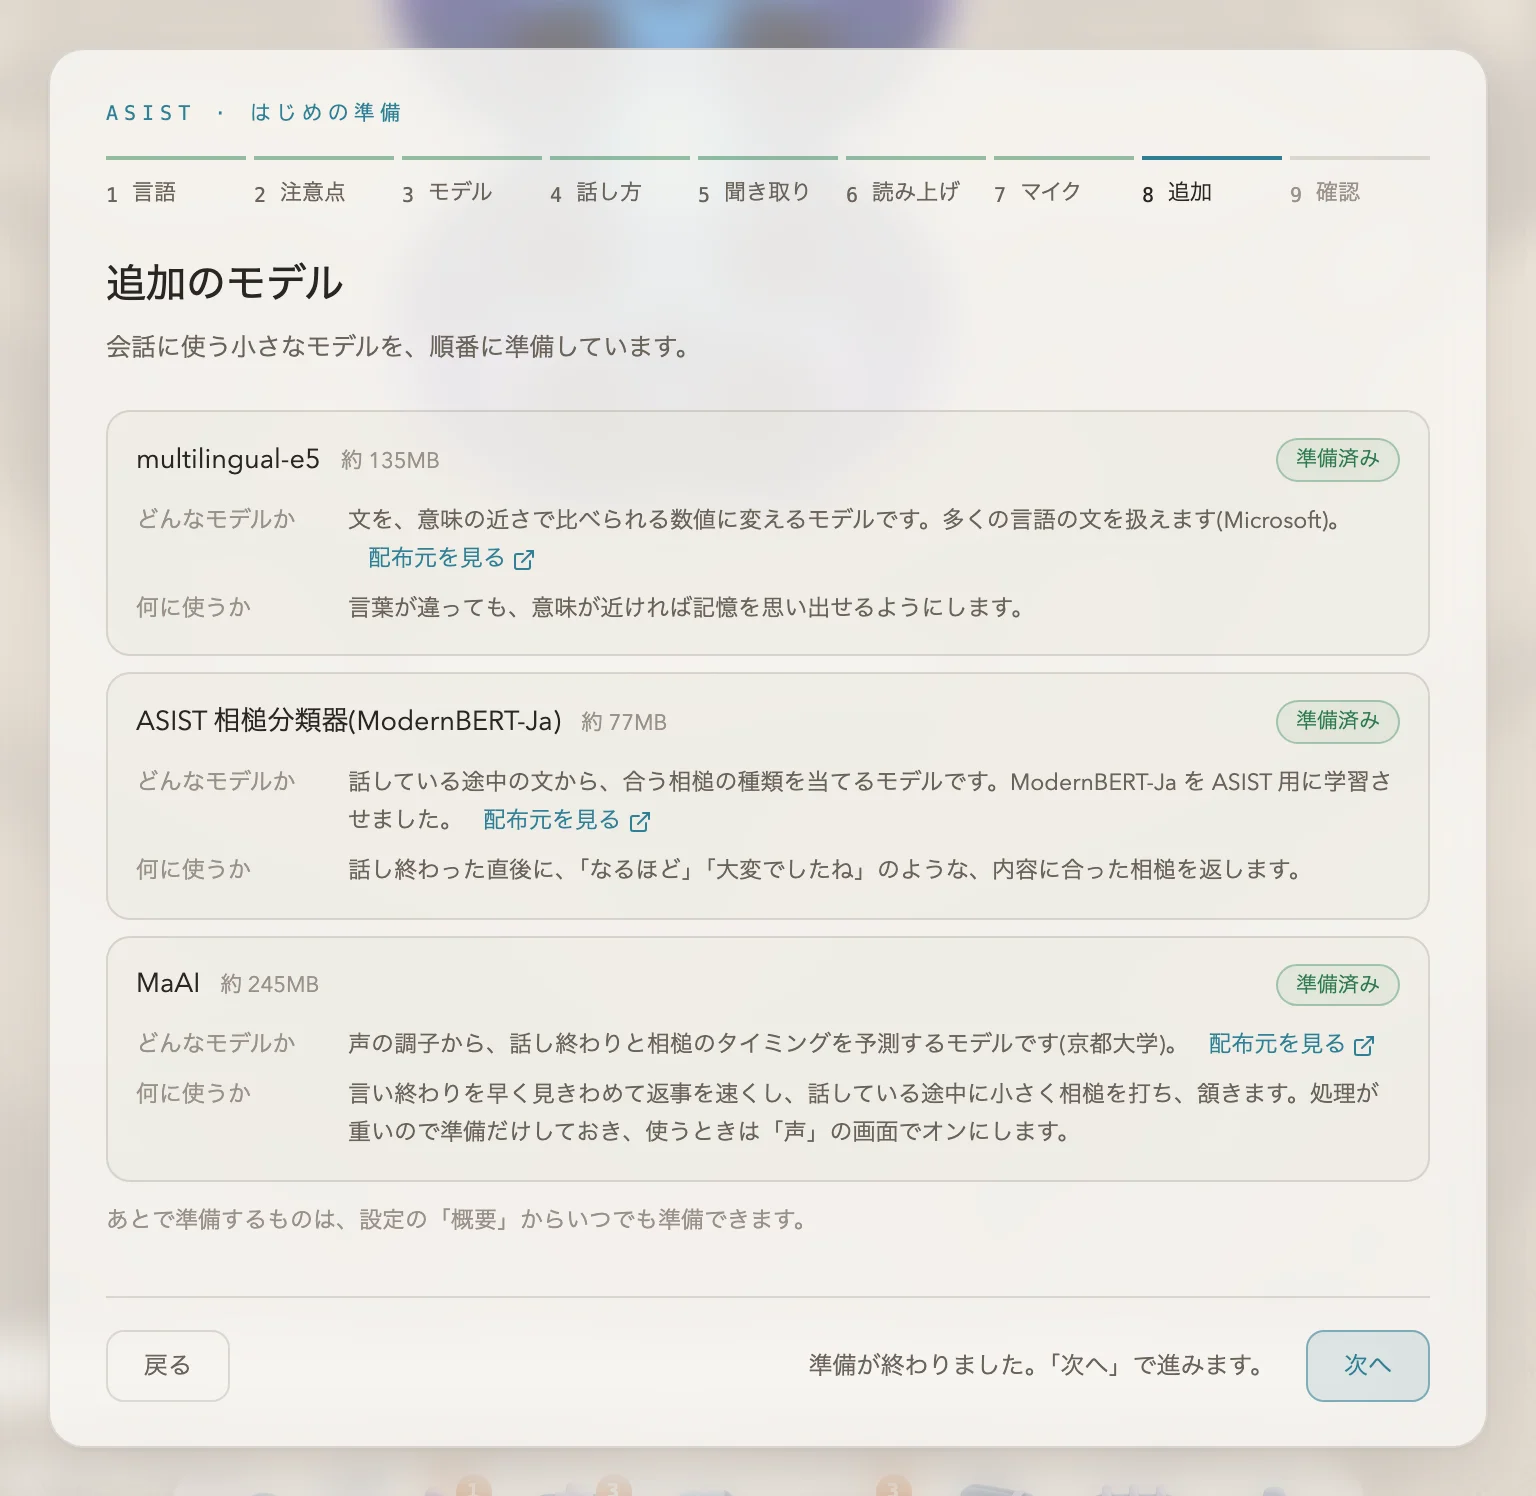
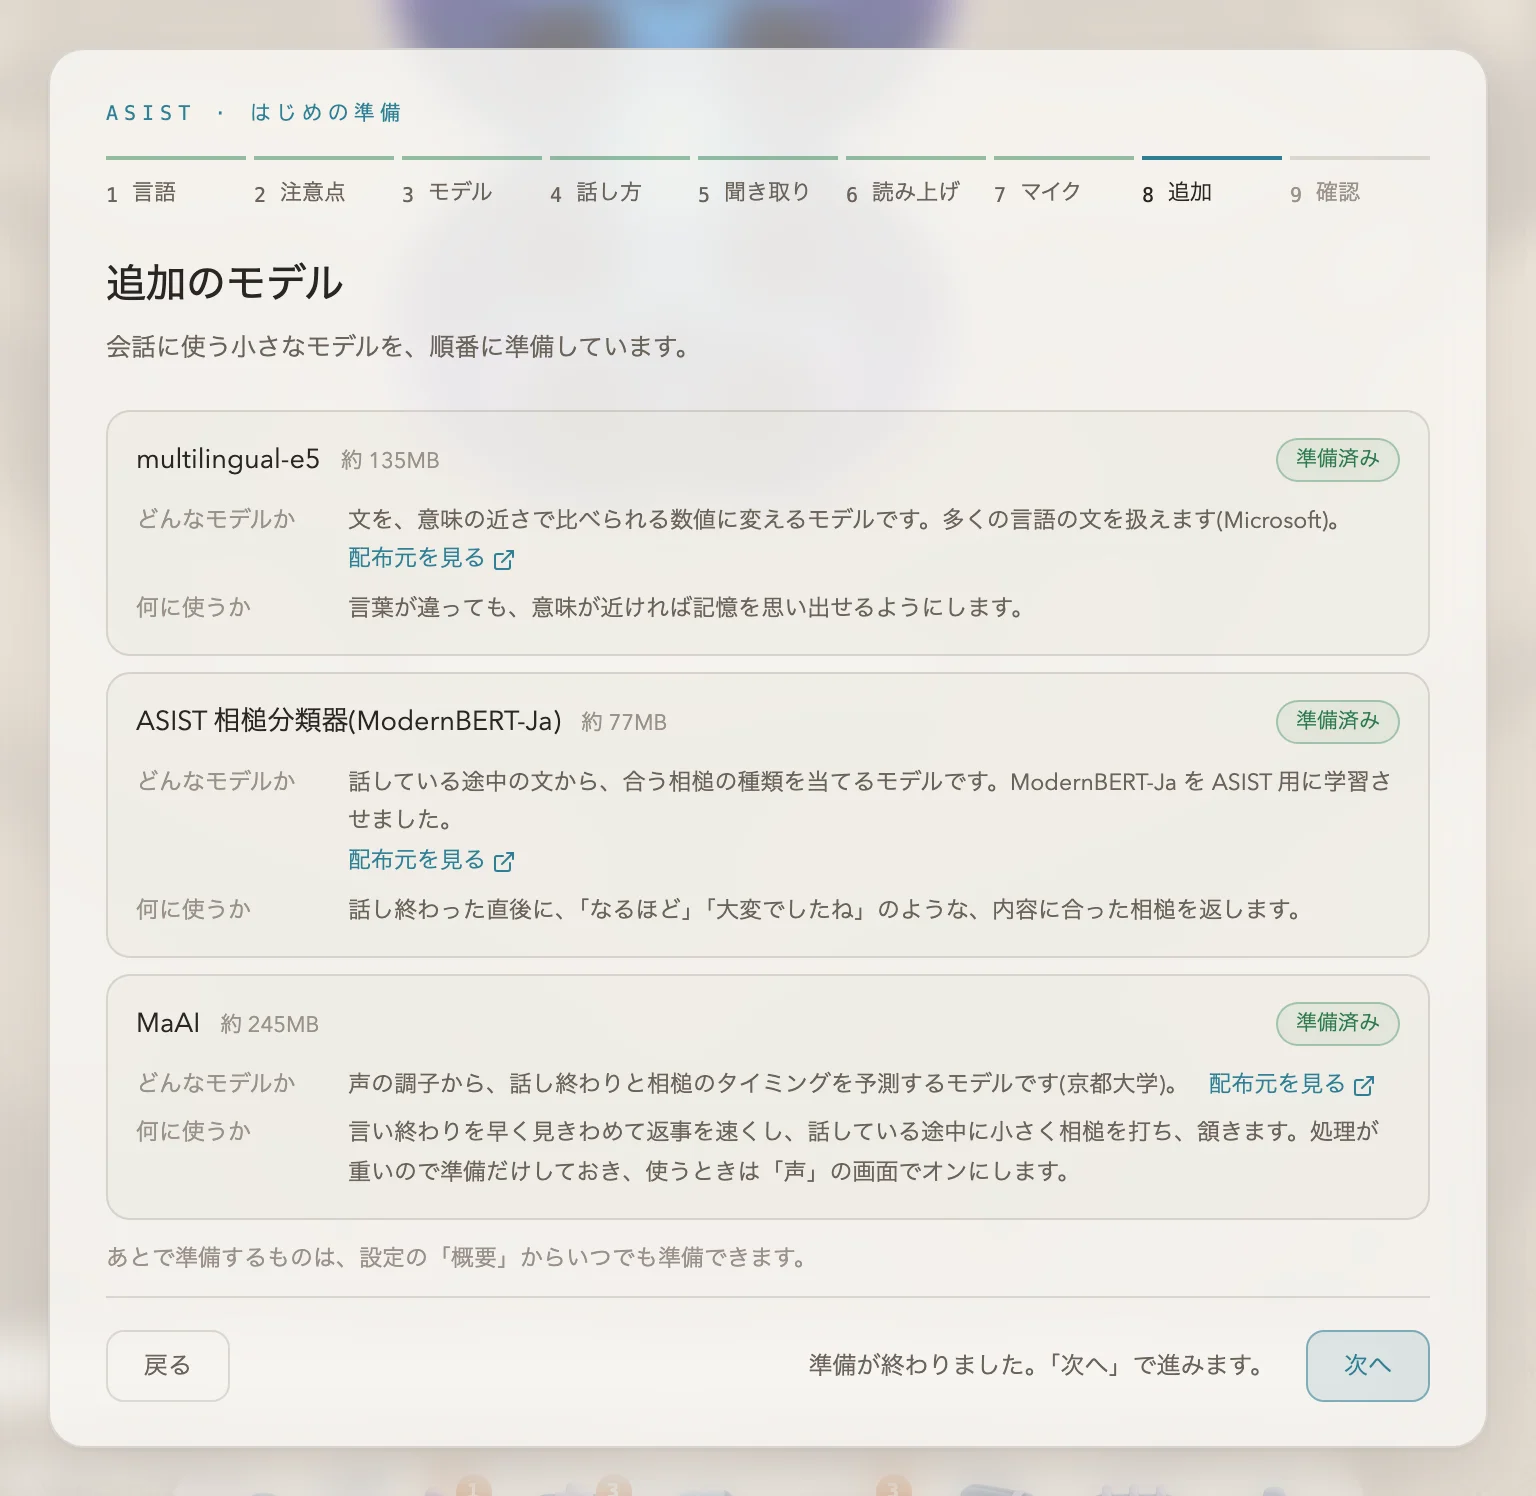
Retake the documentation pictures the setup's links appear in, and word the row's comment in the present
The saved-key check in the Japanese picture of a failed key, and the source link of an extra model in
both languages, now start level with the text above them.

diff --git a/src/renderer/src/assets/setup.css b/src/renderer/src/assets/setup.css
@@ -161,7 +161,7 @@
 }
 /* A text followed by a link or a note sits beside it while the line has room, and the link or note
    otherwise starts the next line level with the text. The space between them is the row's gap, which a
-   wrapped line does not begin with; a margin on the link stayed at the start of the line it wrapped to. */
+   wrapped line does not begin with; a margin on the link would stay at the start of the line it wraps to. */
 .su-field label,
 .su-field .su-hint,
 .su-extra-name,
